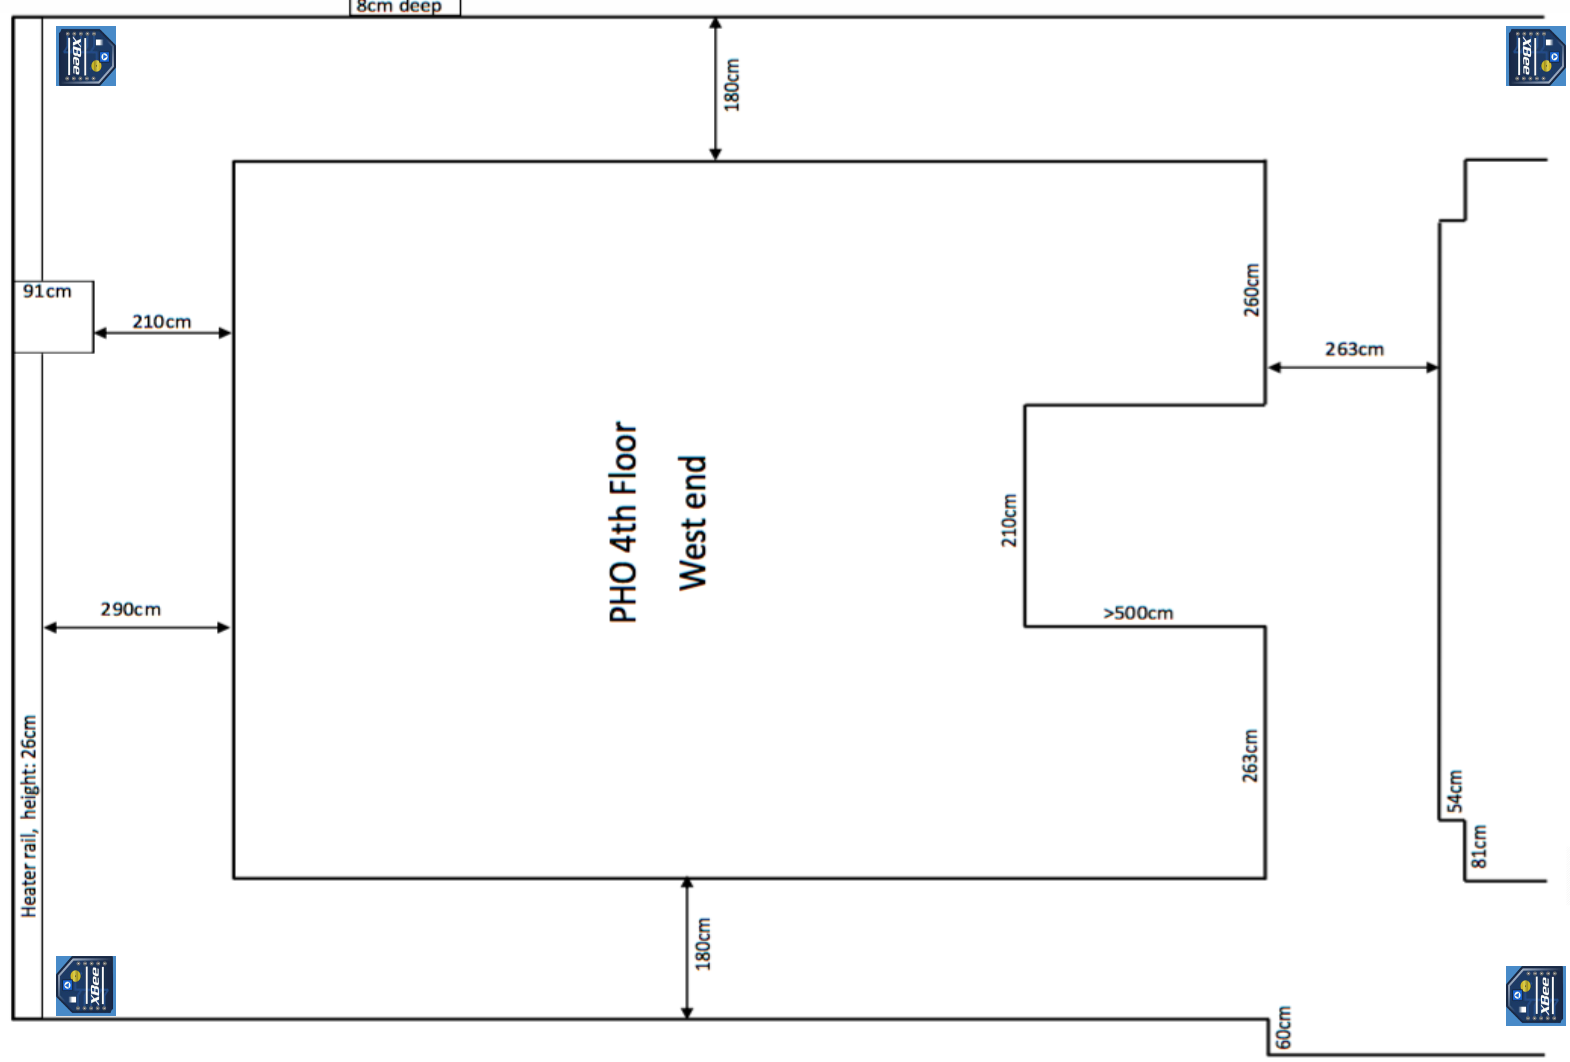
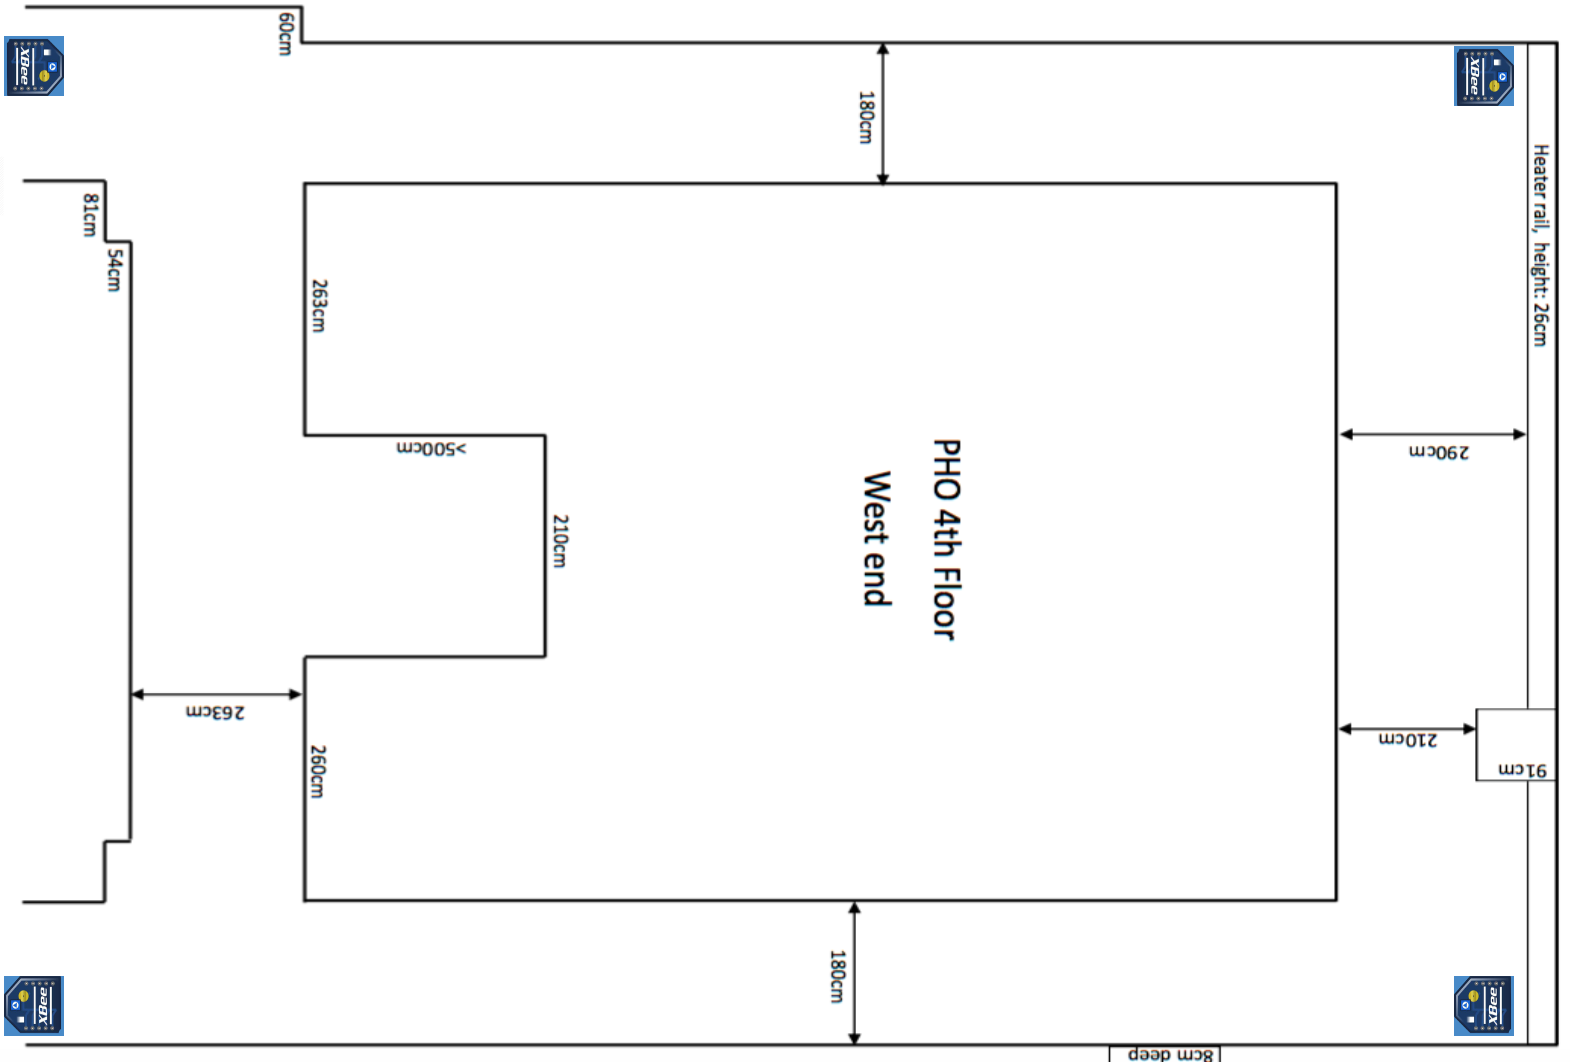
Update images and index.html

diff --git a/Challenge6/index.html b/Challenge6/index.html
@@ -101,7 +101,7 @@ Released   : 20140322
 	</div>
 </div>
 <div class="wrapper">
-	<img id="room" class="displayed" src="images/Room.png" margin-top="30px" position="relative" width="1000" height="700" alt="" /></div>
+	<img id="room" class="displayed" src="images/0.png" margin-top="30px" position="relative" width="1000" height="700" alt="" /></div>
   <label for="predict">Please input the predict point:</label>
   <input type = "text" name = "predict" required = 'true'/>
   <input type="submit" value="go" /></br>
